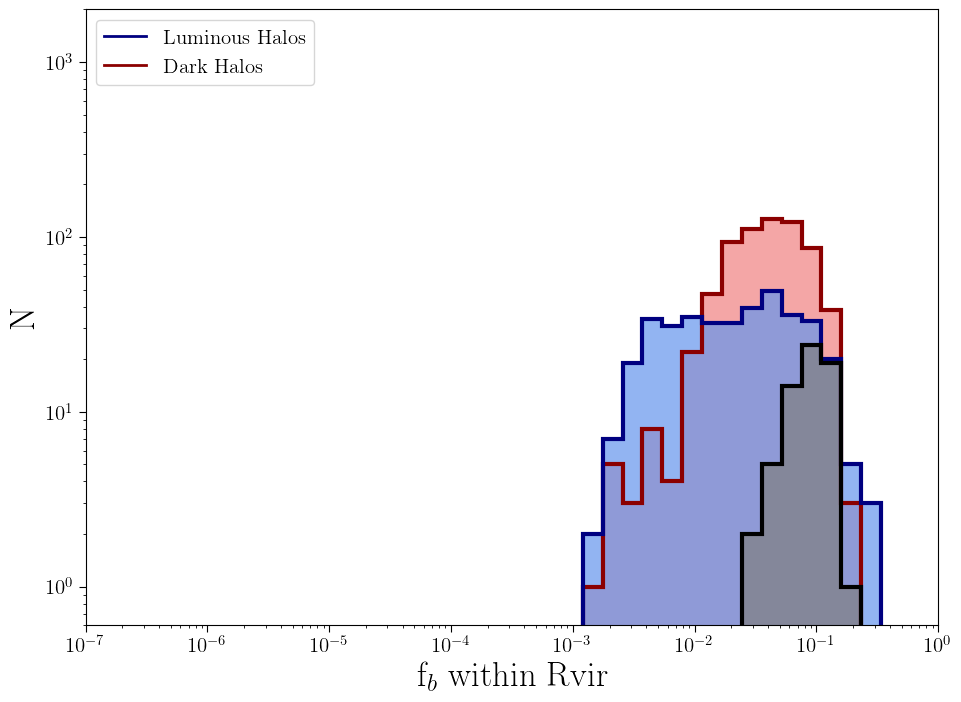
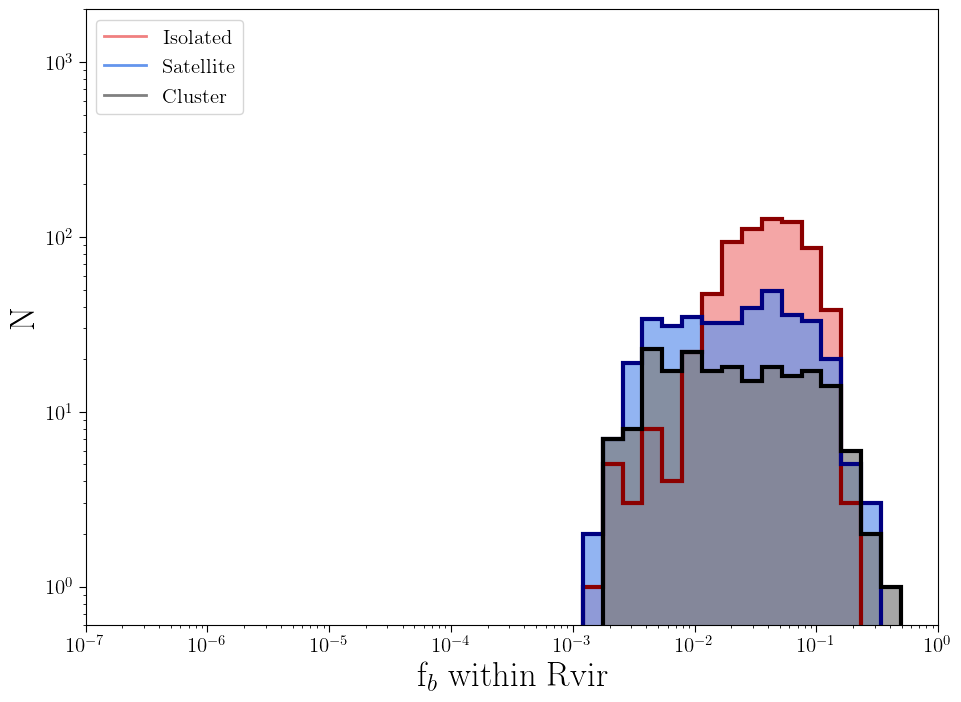
Updated plotting script for Romulus to include inner baryonic fraction plots

diff --git a/Romulus/PlotRomulus.py b/Romulus/PlotRomulus.py
@@ -18,10 +18,7 @@ for e in envs:
         for h in Data[e][t]:
             halo = Data[e][t][h]
             Plots[e][t].append((float(halo['Mstar'])+float(halo['Mgas']))/float(halo['Mvir']))
-            #PlotsInner[e][t].append((float(halo['Mstar_Inner'])+float(halo['Mgas_Inner']))/float(halo['Mvir_Inner']))
-print(len(Plots['field']['udg']))
-print(len(Plots['satellite']['udg']))
-print(len(Plots['field']['udg']+Plots['satellite']['udg']))
+            PlotsInner[e][t].append((float(halo['Mstar_Inner'])+float(halo['Mgas_Inner']))/float(halo['Mvir_Inner']))
 
 f,ax = plt.subplots(1,1,figsize=(11,8))
 ax.set_ylabel('N',fontsize=25)
@@ -32,8 +29,8 @@ ax.semilogx()
 ax.set_ylim([6e-1,2e3])
 ax.semilogy()
 bins = np.logspace(-7,1,50,)
-ax.plot(0,0,color='navy',linewidth=2,label='Dwarfs')
-ax.plot(0,0,color='darkred',linewidth=2,label='UDGs')
+ax.plot(0,0,color='cornflowerblue',linewidth=2,label='Dwarfs')
+ax.plot(0,0,color='lightcoral',linewidth=2,label='UDGs')
 ax.hist(Plots['field']['udg']+Plots['satellite']['udg']+Plots['cluster']['udg'],bins,histtype='step',color='darkred',linewidth=3)
 ax.hist(Plots['field']['udg']+Plots['satellite']['udg']+Plots['cluster']['udg'],bins,color='lightcoral',alpha=.7)
 ax.hist(Plots['field']['dwarf']+Plots['satellite']['dwarf']+Plots['cluster']['dwarf'],bins,histtype='step',color='navy',linewidth=3)
@@ -53,8 +50,9 @@ ax.semilogx()
 ax.set_ylim([6e-1,2e3])
 ax.semilogy()
 bins = np.logspace(-7,1,50,)
-ax.plot(0,0,color='navy',linewidth=2,label='Luminous Halos')
-ax.plot(0,0,color='darkred',linewidth=2,label='Dark Halos')
+ax.plot(0,0,color='lightcoral',linewidth=2,label='Isolated')
+ax.plot(0,0,color='cornflowerblue',linewidth=2,label='Satellite')
+ax.plot(0,0,color='0.5',linewidth=2,label='Cluster')
 ax.hist(Plots['field']['udg']+Plots['field']['dwarf'],bins,histtype='step',color='darkred',linewidth=3)
 ax.hist(Plots['field']['udg']+Plots['field']['dwarf'],bins,color='lightcoral',alpha=.7)
 ax.hist(Plots['satellite']['udg']+Plots['satellite']['dwarf'],bins,histtype='step',color='navy',linewidth=3)
@@ -67,3 +65,48 @@ meta = OSXMetaData(f'../Plots/Romulus.Environment.png')
 meta.creator='PlotRomulus.py'
 plt.close()
 
+
+f,ax = plt.subplots(1,1,figsize=(11,8))
+ax.set_ylabel('N',fontsize=25)
+ax.set_xlabel(r'f$_{b}$ within .1*Rvir',fontsize=25)
+ax.tick_params(length=5,labelsize=15)
+ax.set_xlim([1e-7,1])
+ax.semilogx()
+ax.set_ylim([6e-1,2e3])
+ax.semilogy()
+bins = np.logspace(-7,1,50,)
+ax.plot(0,0,color='cornflowerblue',linewidth=2,label='Dwarfs')
+ax.plot(0,0,color='lightcoral',linewidth=2,label='UDGs')
+ax.hist(PlotsInner['field']['udg']+PlotsInner['satellite']['udg']+PlotsInner['cluster']['udg'],bins,histtype='step',color='darkred',linewidth=3)
+ax.hist(PlotsInner['field']['udg']+PlotsInner['satellite']['udg']+PlotsInner['cluster']['udg'],bins,color='lightcoral',alpha=.7)
+ax.hist(PlotsInner['field']['dwarf']+PlotsInner['satellite']['dwarf']+PlotsInner['cluster']['dwarf'],bins,histtype='step',color='navy',linewidth=3)
+ax.hist(PlotsInner['field']['dwarf']+PlotsInner['satellite']['dwarf']+PlotsInner['cluster']['dwarf'],bins,color='cornflowerblue',alpha=.7)
+ax.legend(loc='upper left',prop={'size':15})
+f.savefig(f'../Plots/RomulusInner.UDG.png',bbox_inches='tight',pad_inches=.1)
+meta = OSXMetaData(f'../Plots/RomulusInner.UDG.png')
+meta.creator='PlotRomulus.py'
+plt.close()
+
+f,ax = plt.subplots(1,1,figsize=(11,8))
+ax.set_ylabel('N',fontsize=25)
+ax.set_xlabel(r'f$_{b}$ within .1*Rvir',fontsize=25)
+ax.tick_params(length=5,labelsize=15)
+ax.set_xlim([1e-7,1])
+ax.semilogx()
+ax.set_ylim([6e-1,2e3])
+ax.semilogy()
+bins = np.logspace(-7,1,50,)
+ax.plot(0,0,color='lightcoral',linewidth=2,label='Isolated')
+ax.plot(0,0,color='cornflowerblue',linewidth=2,label='Satellite')
+ax.plot(0,0,color='0.5',linewidth=2,label='Cluster')
+ax.hist(PlotsInner['field']['udg']+PlotsInner['field']['dwarf'],bins,histtype='step',color='darkred',linewidth=3)
+ax.hist(PlotsInner['field']['udg']+PlotsInner['field']['dwarf'],bins,color='lightcoral',alpha=.7)
+ax.hist(PlotsInner['satellite']['udg']+PlotsInner['satellite']['dwarf'],bins,histtype='step',color='navy',linewidth=3)
+ax.hist(PlotsInner['satellite']['udg']+PlotsInner['satellite']['dwarf'],bins,color='cornflowerblue',alpha=.7)
+ax.hist(PlotsInner['cluster']['udg']+PlotsInner['cluster']['dwarf'],bins,histtype='step',color='k',linewidth=3)
+ax.hist(PlotsInner['cluster']['udg']+PlotsInner['cluster']['dwarf'],bins,color='0.5',alpha=.7)
+ax.legend(loc='upper left',prop={'size':15})
+f.savefig(f'../Plots/RomulusInner.Environment.png',bbox_inches='tight',pad_inches=.1)
+meta = OSXMetaData(f'../Plots/RomulusInner.Environment.png')
+meta.creator='PlotRomulus.py'
+plt.close()
